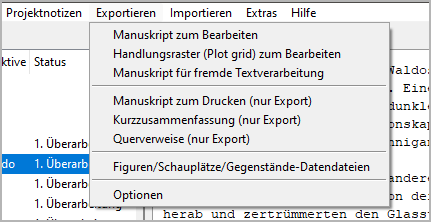
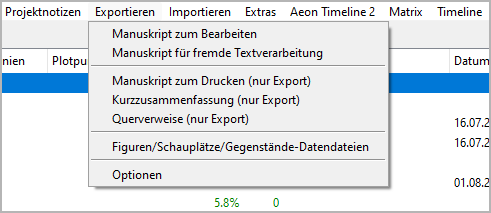
Update screenshots and menu descriptions for novelibre v3.3.1

diff --git a/source/export_menu.rst b/source/export_menu.rst
@@ -39,45 +39,6 @@ Der Dateinamenszusatz lautet ``_Manuskript_tmp``.
    as underline and strikethrough are lost.
 
 
-Handlungsraster (Plot grid) zum Bearbeiten
-------------------------------------------
-
-**Exportieren an ODS document that can be imported again after editing**
-
-Mit **Exportieren > Handlungsraster (Plot grid) zum Bearbeiten**,
-you can create a spreadsheet as described in the
-`Plotting with novelibre <plotting.html#handlungsraster-(plot-grid)>`__ chapter,
-with a row per section, containing the following data:
-
-- The sequential section number as a hyperlink to the section in the
-  Manuskript (falls vorhanden)
-- Erzähldatum
-- Erzählzeit
-- Tag
-- Abschnittstitel
-- Abschnittsbeschreibung
-- Perspektive
-- One column per Plotlinie with the section's Plotlinie notes
-- Tags
-- A/R
-- Ziel
-- Konflikt
-- Ausgang
-- Abschnittsnotizen
-
-.. note::
-   Only "normal" sections appear in the plot grid. 
-   Abschnitts of the "Unbenutzt" type are omitted.
-
-Der Dateinamenszusatz lautet ``_grid_tmp``.
-
-.. note::
-   You can reorder, hide or delete columns and rows 
-   without affecting the reimport. 
-   Only the first column and the first row, which are hidden by default, 
-   must not be changed as they contain the structural information 
-   for the import. 
-
 Manuskript für fremde Textverarbeitung
 --------------------------------------
 
@@ -203,50 +164,6 @@ to transfer the characters, locations, and items to another project.
    command in the **Figuren**, **Schauplätze**, or **Gegenstände**-Menü.
 
 
-Plot-Beschreibung (export only)
--------------------------------
-
-**Exportieren an ODT document**
-
-Mit **Exportieren >  Plot-Beschreibung (export only)**,
-you can create a text document that contains the plot-defining elements.
-Der Dateinamenszusatz lautet ``_plot``.
-
-Contents:
-
--  First and second level stages (Titels and descriptions).
--  Plotlinien (Titels and descriptions).
--  Plotpunkte (Titels, descriptions, and links to the associated
-   section, if any).
-
-
-Plot-Liste exportieren (Tabelle)
---------------------------------
-
-**Exportieren an ODS document**
-
-Mit **Exportieren >  Plot-Liste exportieren (Tabelle)**,
-you can create a spreadsheet that contains
-sections, Plotlinien, and plot points.
-Der Dateinamenszusatz lautet ``_plotlist``.
-
-The spreadsheet is not meant to be reimported.
-
-.. hint::
-   There are hyperlinks to the sections in the Manuskript, and to the
-   chapters in the plot description.
-
-
-Plot-Liste anzeigen
--------------------
-
-Mit **Exportieren >  Plot-Liste anzeigen**,
-you can create a list-formatted HTML file that contains
-sections, Plotlinien, and plot points,
-and launch your system’s web browser for displaying it.
-
--  The Report is a temporary file, auto-gelöscht on program exit.
--  If needed, you can have your web browser save or print it.
 
 
 Optionen

diff --git a/source/plot_menu.rst b/source/plot_menu.rst
@@ -67,6 +67,47 @@ you can change the level of the selected stages.
    The stage level is only for visual distinction. It has no
    influence on the program functions. 
 
+
+Handlungsraster (Plot grid) zum Bearbeiten exportieren
+------------------------------------------------------
+
+**Exportieren an ODS document that can be imported again after editing**
+
+Mit **Plot > Handlungsraster (Plot grid) zum Bearbeiten exportieren**,
+you can create a spreadsheet as described in the
+`Plotting with novelibre <plotting.html#handlungsraster-plot-grid>`__ chapter,
+with a row per section, containing the following data:
+
+- The sequential section number as a hyperlink to the section in the
+  Manuskript (falls vorhanden)
+- Erzähldatum
+- Erzählzeit
+- Tag
+- Abschnittstitel
+- Abschnittsbeschreibung
+- Perspektive
+- One column per Plotlinie with the section's Plotlinie notes
+- Tags
+- A/R
+- Ziel
+- Konflikt
+- Ausgang
+- Abschnittsnotizen
+
+.. note::
+   Only "normal" sections appear in the plot grid. 
+   Abschnitts of the "Unbenutzt" type are omitted.
+
+Der Dateinamenszusatz lautet ``_grid_tmp``.
+
+.. note::
+   You can reorder, hide or delete columns and rows 
+   without affecting the reimport. 
+   Only the first column and the first row, which are hidden by default, 
+   must not be changed as they contain the structural information 
+   for the import. 
+
+
 Plot-Beschreibung exportieren
 -----------------------------
 

diff --git a/source/getting_started.rst b/source/getting_started.rst
@@ -133,7 +133,7 @@ Ein Handlungsraster anlegen
 ~~~~~~~~~~~~~~~~~~~~~~~~~~~
 
 If you want to outline your novel using a `plot grid
-<plotting.html#handlungsraster-(plot-grid)>`__, you can do this with
+<plotting.html#handlungsraster-plot-grid>`__, you can do this with
 *novelibre*:
 
 1. Create an empty new project as described above.
@@ -146,7 +146,7 @@ If you want to outline your novel using a `plot grid
    that are easier to distribute to the chapters to be created later.
    You can extend the plot grid over time.
 5. Create the `Plotlinien <plot_menu.html#plotlinie-hinzufugen>`__ you need.
-6. `Exportieren a plot grid <export_menu.html#handlungsraster-(plot-grid)-zum-bearbeiten>`__
+6. `Exportieren a plot grid <plot_menu.html#handlungsraster-plot-grid-zum-bearbeiten-exportieren>`__
    and fill the table cells.
 7. `Importieren <import_menu.html>`__ the plot grid.
 8. `Hinzufügen more chapters <chapter_menu.html#hinzufugen>`__ and
@@ -203,7 +203,7 @@ with the *.novx* extension.
 .. tip::
    After importing an extensive piece of work, you may have a whole lot
    of sections that need to be named and described. 
-   A `plot grid <plotting.html#handlungsraster-(plot-grid)>`__ might be a great help for
+   A `plot grid <plotting.html#handlungsraster-plot-grid>`__ might be a great help for
    doing this. 
 
 

diff --git a/source/section_view.rst b/source/section_view.rst
@@ -73,7 +73,7 @@ assigned to the section.
    
    You can also assign a section to a Plotlinie by entering text
    in the corresponding *Plotlinie notes* cell of the 
-   `plot grid <plotting.html#handlungsraster-(plot-grid)>`__. 
+   `plot grid <plotting.html#handlungsraster-plot-grid>`__. 
 
 Hinzufügen Plotlinie assignment
    When clicking on |Hinzufügen|, the "Pick mode"
@@ -99,7 +99,7 @@ Ansicht the related element
 Plotlinie notes
    You can enter section-related notes for the Plotlinie selected
    in the list of related Plotlinien. These notes appear in the
-   `plot grid <plotting.html#handlungsraster-(plot-grid)>`__ where you also can
+   `plot grid <plotting.html#handlungsraster-plot-grid>`__ where you also can
    edit them.
 
 

diff --git a/source/plotting.rst b/source/plotting.rst
@@ -65,7 +65,7 @@ Handlungsraster (Plot grid)
 ---------------------------
 
 The *novelibre* `plot grid
-<export_menu.html#handlungsraster-(plot-grid)-zum-bearbeiten>`__ is a spreadsheet with a row for
+<plot_menu.html#handlungsraster-plot-grid-zum-bearbeiten-exportieren>`__ is a spreadsheet with a row for
 each section, and a set of plot-relevant section metadata in the columns.
 The first visible column contains links to the sections in the
 `Manuskript <export_menu.html#manuskript-zum-bearbeiten>`__.
